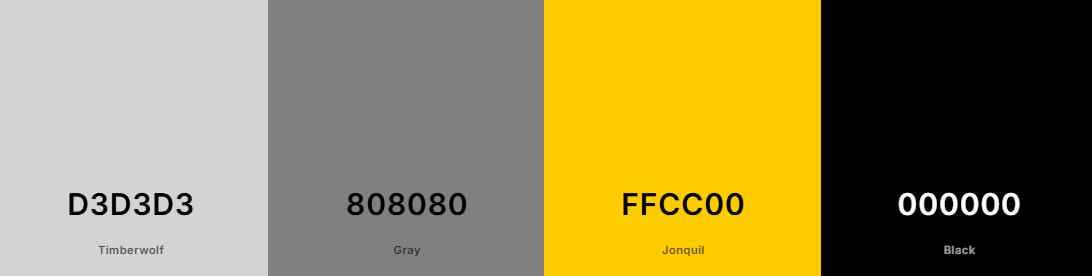
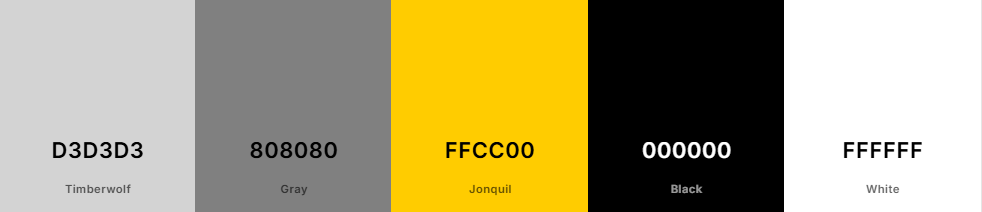
add further additional content to readme, all sections

diff --git a/booking.html b/booking.html
@@ -144,7 +144,7 @@
     </a>
     <p> Phone : 0777 111 666 | Email: tomgoss84@gmail.com </p>
     <a href="X" aria-label="Got to the Terms & Conditions section">Terms & Conditions</a>
-    <p>&copy; 2025 Tom Goss UK Winter Mountain Guided Tours | All Rights Reserved</p>
+    <p>&copy; 2025 UK Winter Mountain Tours | All Rights Reserved</p>
   </footer>
   <script src="https://cdn.jsdelivr.net/npm/bootstrap@5.3.3/dist/js/bootstrap.bundle.min.js" integrity="sha384-YvpcrYf0tY3lHB60NNkmXc5s9fDVZLESaAA55NDzOxhy9GkcIdslK1eN7N6jIeHz" crossorigin="anonymous"></script>
   <script src="assets/js/script.js"></script>

diff --git a/equipment.html b/equipment.html
@@ -162,7 +162,7 @@
     </a>
     <p> Phone : 0777 111 666 | Email: tomgoss84@gmail.com </p>
     <a href="X" aria-label="Got to the Terms & Conditions section">Terms & Conditions</a>
-    <p>&copy; 2025 Tom Goss UK Winter Mountain Guided Tours | All Rights Reserved</p>
+    <p>&copy; 2025 UK Winter Mountain Tours | All Rights Reserved</p>
   </footer>
   <script src="https://cdn.jsdelivr.net/npm/bootstrap@5.3.3/dist/js/bootstrap.bundle.min.js" integrity="sha384-YvpcrYf0tY3lHB60NNkmXc5s9fDVZLESaAA55NDzOxhy9GkcIdslK1eN7N6jIeHz" crossorigin="anonymous"></script>
   <script src="assets/js/script.js"></script>

diff --git a/index.html b/index.html
@@ -176,7 +176,7 @@
     </a>
     <p> Phone : 0777 111 666 | Email: tomgoss84@gmail.com </p>
     <a href="X" aria-label="Got to the Terms & Conditions section">Terms & Conditions</a>
-    <p>&copy; 2025 Tom Goss UK Winter Mountain Guided Tours | All Rights Reserved</p>
+    <p>&copy; 2025 UK Winter Mountain Tours | All Rights Reserved</p>
   </footer>
   <script src="https://cdn.jsdelivr.net/npm/bootstrap@5.3.3/dist/js/bootstrap.bundle.min.js" integrity="sha384-YvpcrYf0tY3lHB60NNkmXc5s9fDVZLESaAA55NDzOxhy9GkcIdslK1eN7N6jIeHz" crossorigin="anonymous"></script>
   <script src="assets/js/script.js"></script>

diff --git a/readme.md b/readme.md
@@ -4,7 +4,11 @@ Welcome to the **UK Winter Mountain Tours** website. This site is dedicated to p
 
 The website was setup to offer the general public an opportunity to experience some the of the UK's best mountain routes in the Winter with an experienced guide to support them along the way. Users of the website will be able to read about what is on offer with the guided tours, the regions available to choose from, the equipment that is required, a 'contact us' section for general enquiries & finally a booking form to book a tour.
 
-![Screenshot](assets/images/wphomepage-devices.PNG)
+This website has been built to be responsive on both mobile devices & larger screens such as tablets and desktop screens.
+
+<p align="center">
+  <img src="assets/images/wphomepage-devices.PNG" alt="Screenshot of booking form">
+</p>
 
 [Link to GitHub project](URL)
 
@@ -20,7 +24,8 @@ The website was setup to offer the general public an opportunity to experience s
 - [**Deployment**](#deployment)    
 - [**Testing**](#testing)
     - [Browser Tests](#browser-tests)
-    - [Code Validation](#code-validation)
+    - [HTML Validation](#html-validation)
+    - [CSS Validation](#css-validation)
     - [Lighthouse Tests](#lighthouse-tests)
     - [Solved Bugs](#solved-bugs)
     - [Unfixed Bugs](#unfixed-bugs)    
@@ -36,36 +41,79 @@ The website was setup to offer the general public an opportunity to experience s
 
 ### User Experience
 
-This website is for individuals looking to explore the UK’s most iconic winter landscapes through guided mountain hikes. Tom Goss, an experienced hiker, offers tours across various regions of the UK, including:
+This website has been designed for individuals looking to explore the UK’s most iconic winter landscapes through guided mountain hikes. Tom Goss, an experienced hiker, offers tours across various regions of the UK, including:
+
 - Lake District
 - Snowdonia
 - Scottish Highlands
 - Peak District
 
-Users can book their winter mountain tours, learn about the different regions, view required hiking equipment, and get in touch for inquiries through the website. The site is designed to be responsive and user-friendly, providing a seamless booking experience and access to important information about the tours.
-
-ADD MORE INFO HERE********
+Users can book their winter mountain tours, learn about the different regions, view required hiking equipment, get in touch for inquiries & finally, book a tour through the website. The site is designed to be responsive and user-friendly, providing a seamless booking experience and access to important information about the tours.
 
 ## Features
 
 ### Main Features
 
-- **Navigation & Header**: A Navbar featured at the top of all pages. The Navigation Bar shows the name of the website along with the main sections/pages.
+- **Navigation & Header**: A Navbar featured at the top of all pages. The Navigation Bar shows the name of the website along with the main sections/pages. All descriptions are clickable links to the pages / sections of the website. The Navbar items are designed so that when hovering over the color changes so the user can clearly see where they are clicking. The main header is fixed at the top of the page along with Navbar and is set to 70% opacity so content can still be visible beneath when scrolling. A png image icon has also been added to the right of the header as the main logo. The main header/logo & Navbar are responsive and will adjust accordingly depending on the device in use. On smaller smaller screens such as ipads, the header text size decreases, on the smallest screens the navbar is displayed as a hamburger icon and can be clicked to show the navbar items as a column as opposed to a row. On the smallest screens, the header becomes hidden and only the logo remains.
 
-![Screenshot](assets/images/navbar-header.PNG)
+<p align="center">
+  <img src="assets/images/navbar-header.PNG" alt="Screenshot of booking form">
+</p>
 
-- **Homepage**: Introduction to Tom Goss' UK Winter Mountain Guided Tours with a call to action to book a tour. The background image is of Crib Goch, a famous ridgeline on route to Snowdon, the highest mountian in Wales. This image shows Crib Goch & Snowdon in Winter conditions to set the mood of the website.
+<p align="center">
+  <img src="assets/images/home-hamburger-column.PNG" alt="Screenshot of booking form">
+</p>
 
-![Screenshot](assets/images/homepage.PNG)
+<p align="center">
+  <img src="assets/images/home-hamburger-column-smallest.PNG" alt="Screenshot of booking form">
+</p>
 
-- **About Section**: Details about the services and expertise Tom brings to his winter mountain hiking tours.
-- **Regions Section**: Highlighting various tour regions such as the Lake District, Scotland, Wales, and the Peak District with gallery pages.
-- **Booking Section**: A direct link to book a tour and join an adventure.
-- **Contact Section**: Contact form for any inquiries or questions.
-- **Booking Page**: A page with a booking form to book your tour.
-- **Equipment Page**: A page detailed the equipment required for hiking the mouuntains in Winter.
-- **Social Media Links**: Links to Facebook, Instagram, and Twitter.
-- **Footer with Legal Information**: Terms & Conditions, copyright, and contact information.
+- **Homepage**: Introduction to Tom Goss' UK Winter Mountain Guided Tours with a call to action to book a tour. The background image is of Crib Goch, a famous ridgeline on route to Snowdon, the highest mountian in Wales. This image shows Crib Goch & Snowdon in Winter conditions to set the mood of the website. In the center of the image is header with a description of the website along with a supporting tag that gives the user more information of what they can expect. Beneath this is a call to action which links to the booking section. Clicking the home button takes the user back to this page.
+
+<p align="center">
+  <img src="assets/images/homepage.PNG" alt="Screenshot of booking form">
+</p>
+
+- **About Section**: Details about the services and expertise Tom brings to his winter mountain hiking tours. Gives the user more information about what to expect on a guided tour and some information about why the website was created and what it offers.
+- **Regions Section**: Highlighting various tour regions such as the Lake District, Scotland, Wales, and the Peak District with breif desriptions about some of the hikes available along with images. 'Cards' have been used to visually display this section. This section is responsive and is diplayed as four cards in a row on larger screens and will dynamically move to a stacked column on mobile devices.
+
+<p align="center">
+  <img src="assets/images/regions-section.PNG" alt="Screenshot of booking form">
+</p>
+
+- **Booking Section**: A direct link to the booking page.
+
+<p align="center">
+  <img src="assets/images/booking-section.png" alt="Screenshot of booking form">
+</p>
+
+- **Contact Section**: Contact form for any inquiries or questions. The 'Required' attribute has been added to all fields to tell the user that the field is required in order to submit.
+
+<p align="center">
+  <img src="assets/images/contact-section.PNG" alt="Screenshot of booking form">
+</p>
+
+- **Booking Page**: A page with a booking form to book your tour. The 'Required' attribute has been added to all fields to tell the user that the field is required in order to submit. Information such as name, email, address, date, group size, special requets has been added to the booking form 
+
+<p align="center">
+  <img src="assets/images/bookingpage.PNG" alt="Screenshot of booking form">
+</p>
+
+- **Equipment Page**: A page detailing the equipment required for hiking the mountains in Winter & why this is important. This page begins with an image of hiking equipment on a table. With aheader whihc begins on the bottom right but is responsive and moves to the middle of the image on smaller screen sizes. There are two paragraphs of text explaining the importance of the correct equipment and some safety information. Belwo this there is an accordion with four titles for Clothing, Equipment, Food & Drink & Emergency Items. These buttons can be clicked to expand/collapse to show a list of items below with further details. Thsi was added to reduce the visual length of lists contained within giving the user an option to drill down. At the bootm there is a Call to Action button whihc links to the booking page.
+
+<p align="center">
+  <img src="assets/images/equipment-page-head-p.PNG" alt="Screenshot of booking form">
+</p>
+
+<p align="center">
+  <img src="assets/images/equipment-page-accordion.PNG" alt="Screenshot of booking form">
+</p>
+
+- **Footer with legal information & Social Media Links**: Links to Facebook, Instagram, and Twitter. Clicking these links opens a new tab with the relevant landing page. Legal information such as Terms & Conditions, copyright & contact information can be found here.
+
+<p align="center">
+  <img src="assets/images/footer.PNG" alt="Screenshot of booking form">
+</p>
 
 ### Features for future Development
  - **Gallery/Detailed Route Descriptions & Prices**: Make the Region Cards clickable to see gallery of photos from these routes along with detailed information on route difficulty/length/location start & end pointys etcalong with pricing information.
@@ -74,27 +122,67 @@ ADD MORE INFO HERE********
 
 ### Design
 
-The website has been created with 3 pages, for easy navigation & seperation of information. All pages are linked with an intuitive navigation bar and can be accessed from each other. The nav bar has been designed to work on a range of devices. The general colour themes of the website are followed through each page for consistency.
+The website has been created with 3 pages (with the homepage having several sections), for easy navigation & seperation of information. All pages are linked with an intuitive navigation bar and can be accessed from each other. The nav bar has been designed to work on a range of devices. The general colour themes of the website are followed through each page for consistency. Contrast has been used for text along with image alternative descriptions for accessibility best practice.
 
 #### Main Colours used
 
 Use of Greys, Blacks and White's to provide a clean but also Wintery astetic to the website. The Call to Action buttons use a vibrant Yellow, not only to stand out to the user but also to link in with the hero image on the landing page and Winter Sun. 
 
-![Screenshot](assets/images/color-theme.PNG)
+<p align="center">
+  <img src="assets/images/color-theme.PNG" alt="Screenshot of booking form">
+</p>
 
 #### Font
 
-Used Roboto from Google Fonts across the website as the main font & for all headers used uppercase & letter spacing for clear descriptions
+Used Roboto from Google Fonts across the website as the main font & for all headers used uppercase & letter spacing for clear descriptions. 
 
 ## Deployment
 
 ## Testing
 
-### Browser Testing
+## Browser Testing
 
-### Code Validation
+## HTML Validation
+
+Code was validated using HTML Validation 
+
+- [HTML Validator](https://validator.w3.org/#validate_by_input)
+
+<p align="center">
+  <img src="assets/images/html-index-validation-screen.PNG" alt="Screenshot of booking form">
+</p>
+
+## CSS Validation
+
+Code was validated using CSS Validation
+
+- [CSS Validator](https://jigsaw.w3.org/css-validator/)
+
+<p align="center">
+  <img src="assets/images/css-validation-screen.PNG" alt="Screenshot of booking form">
+</p>
 
 ### Lighthouse Test
+
+Lighthouse Homepage test results - 
+
+**Homepage**
+
+<p align="center">
+  <img src="assets/images/lighthouse-home-score.PNG" alt="Screenshot of homepage lighthouse result">
+</p>
+
+**Booking Page**
+
+<p align="center">
+  <img src="assets/images/lighthouse-booking-score.PNG" alt="Screenshot of booking form lighthouse result">
+</p>
+
+**Equipment Page**
+
+<p align="center">
+  <img src="assets/images/lighthouse-equipment-score.PNG" alt="Screenshot of equipment lighthouse result">
+</p>
 
 ### Solved Bugs
 
